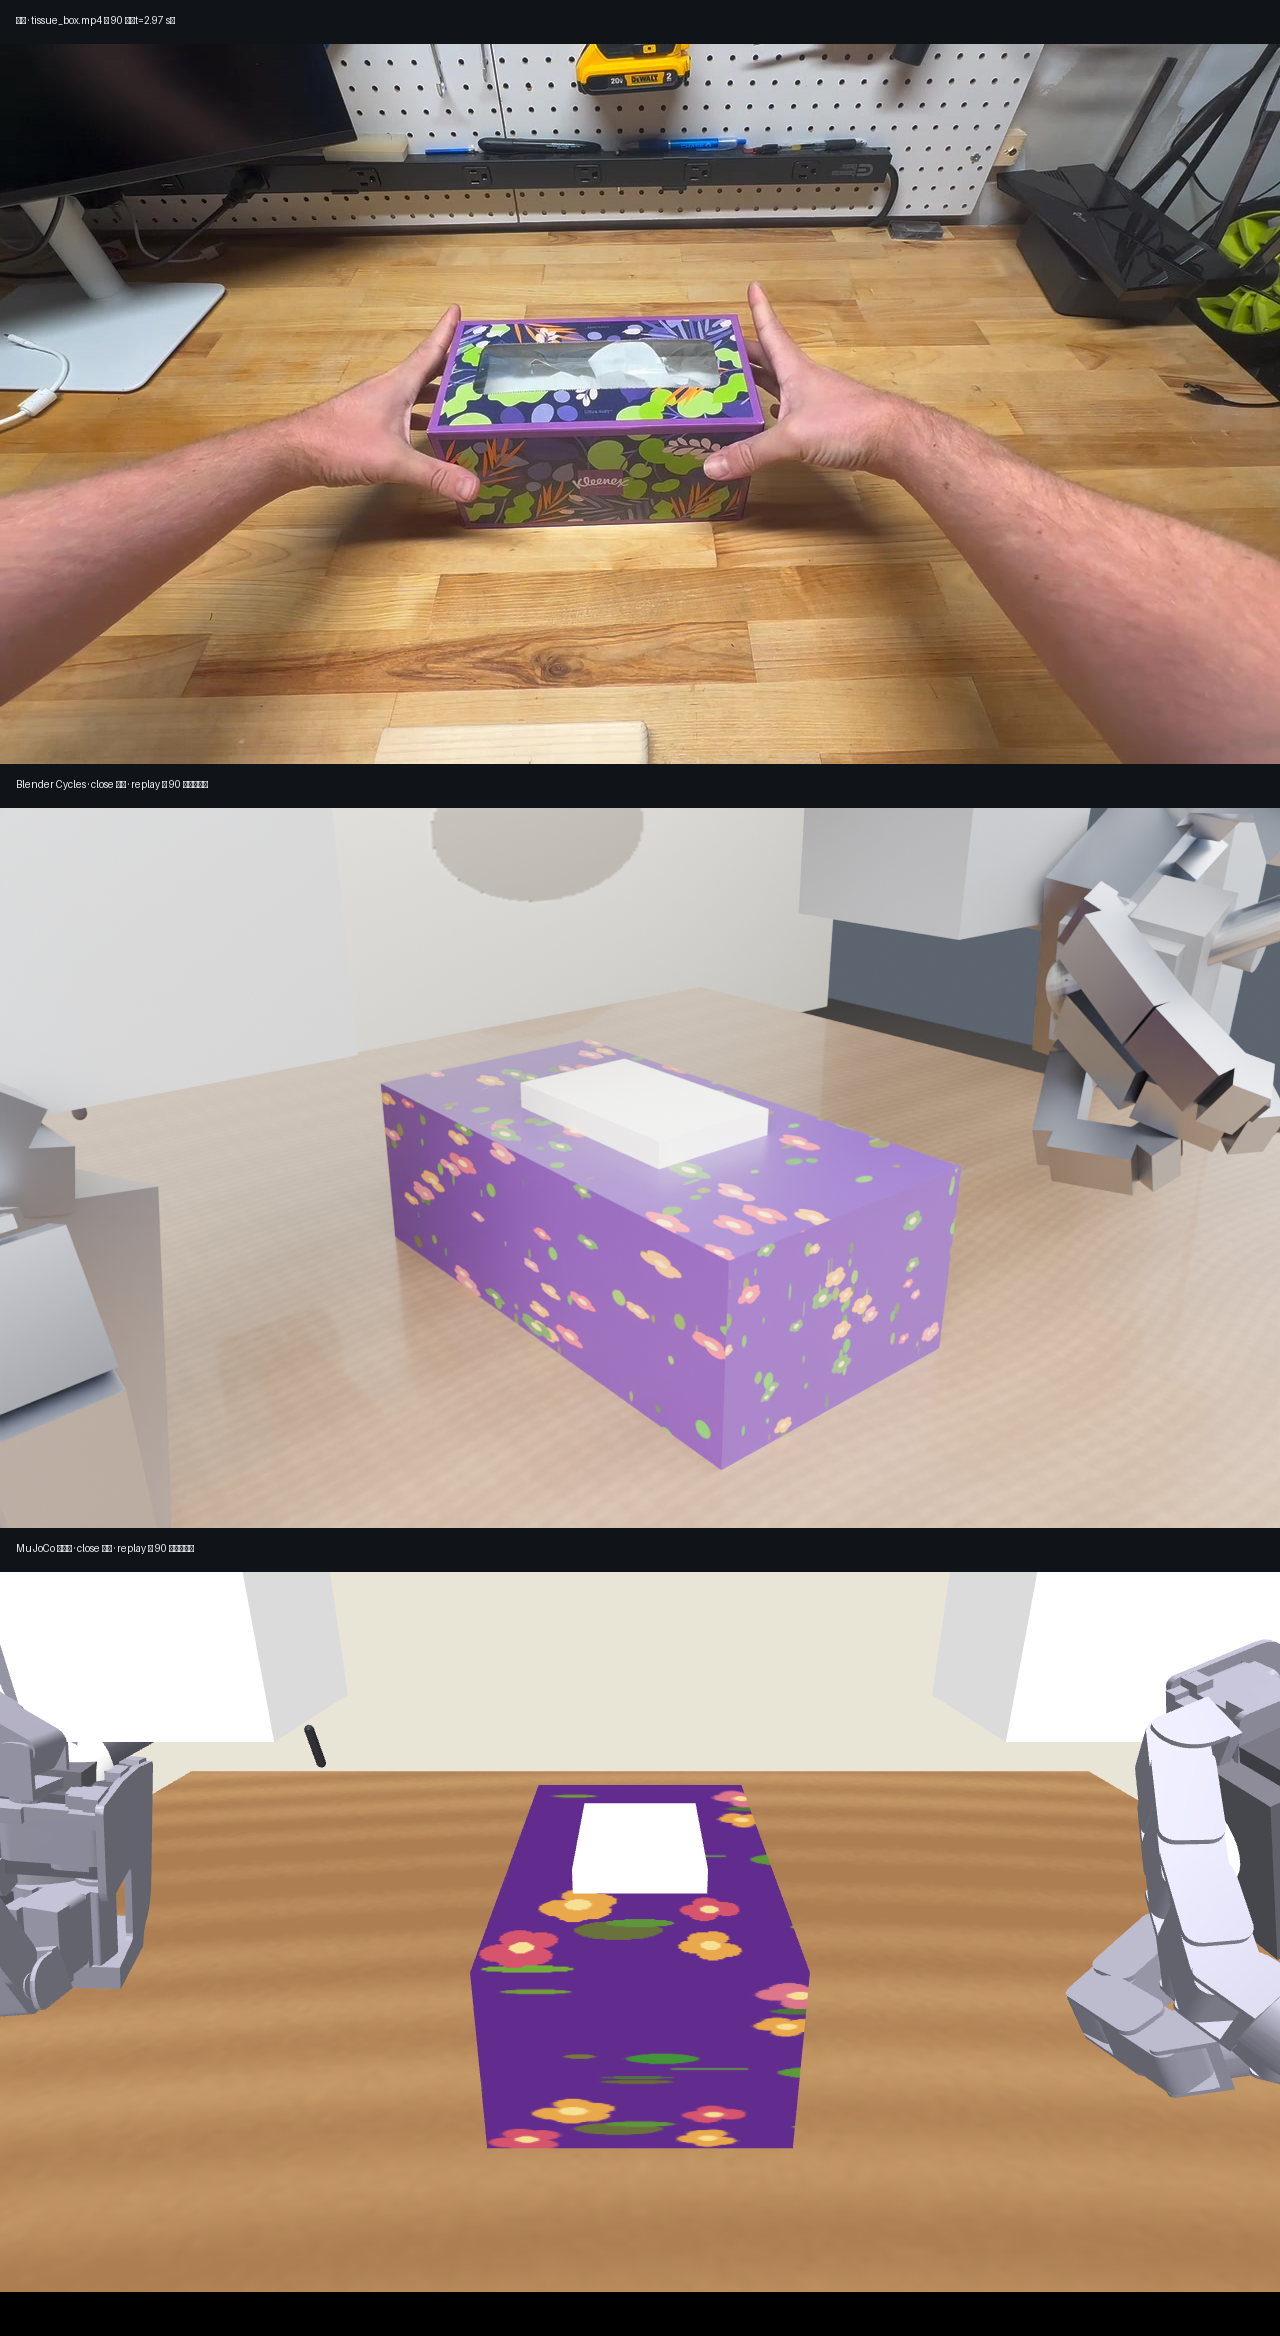
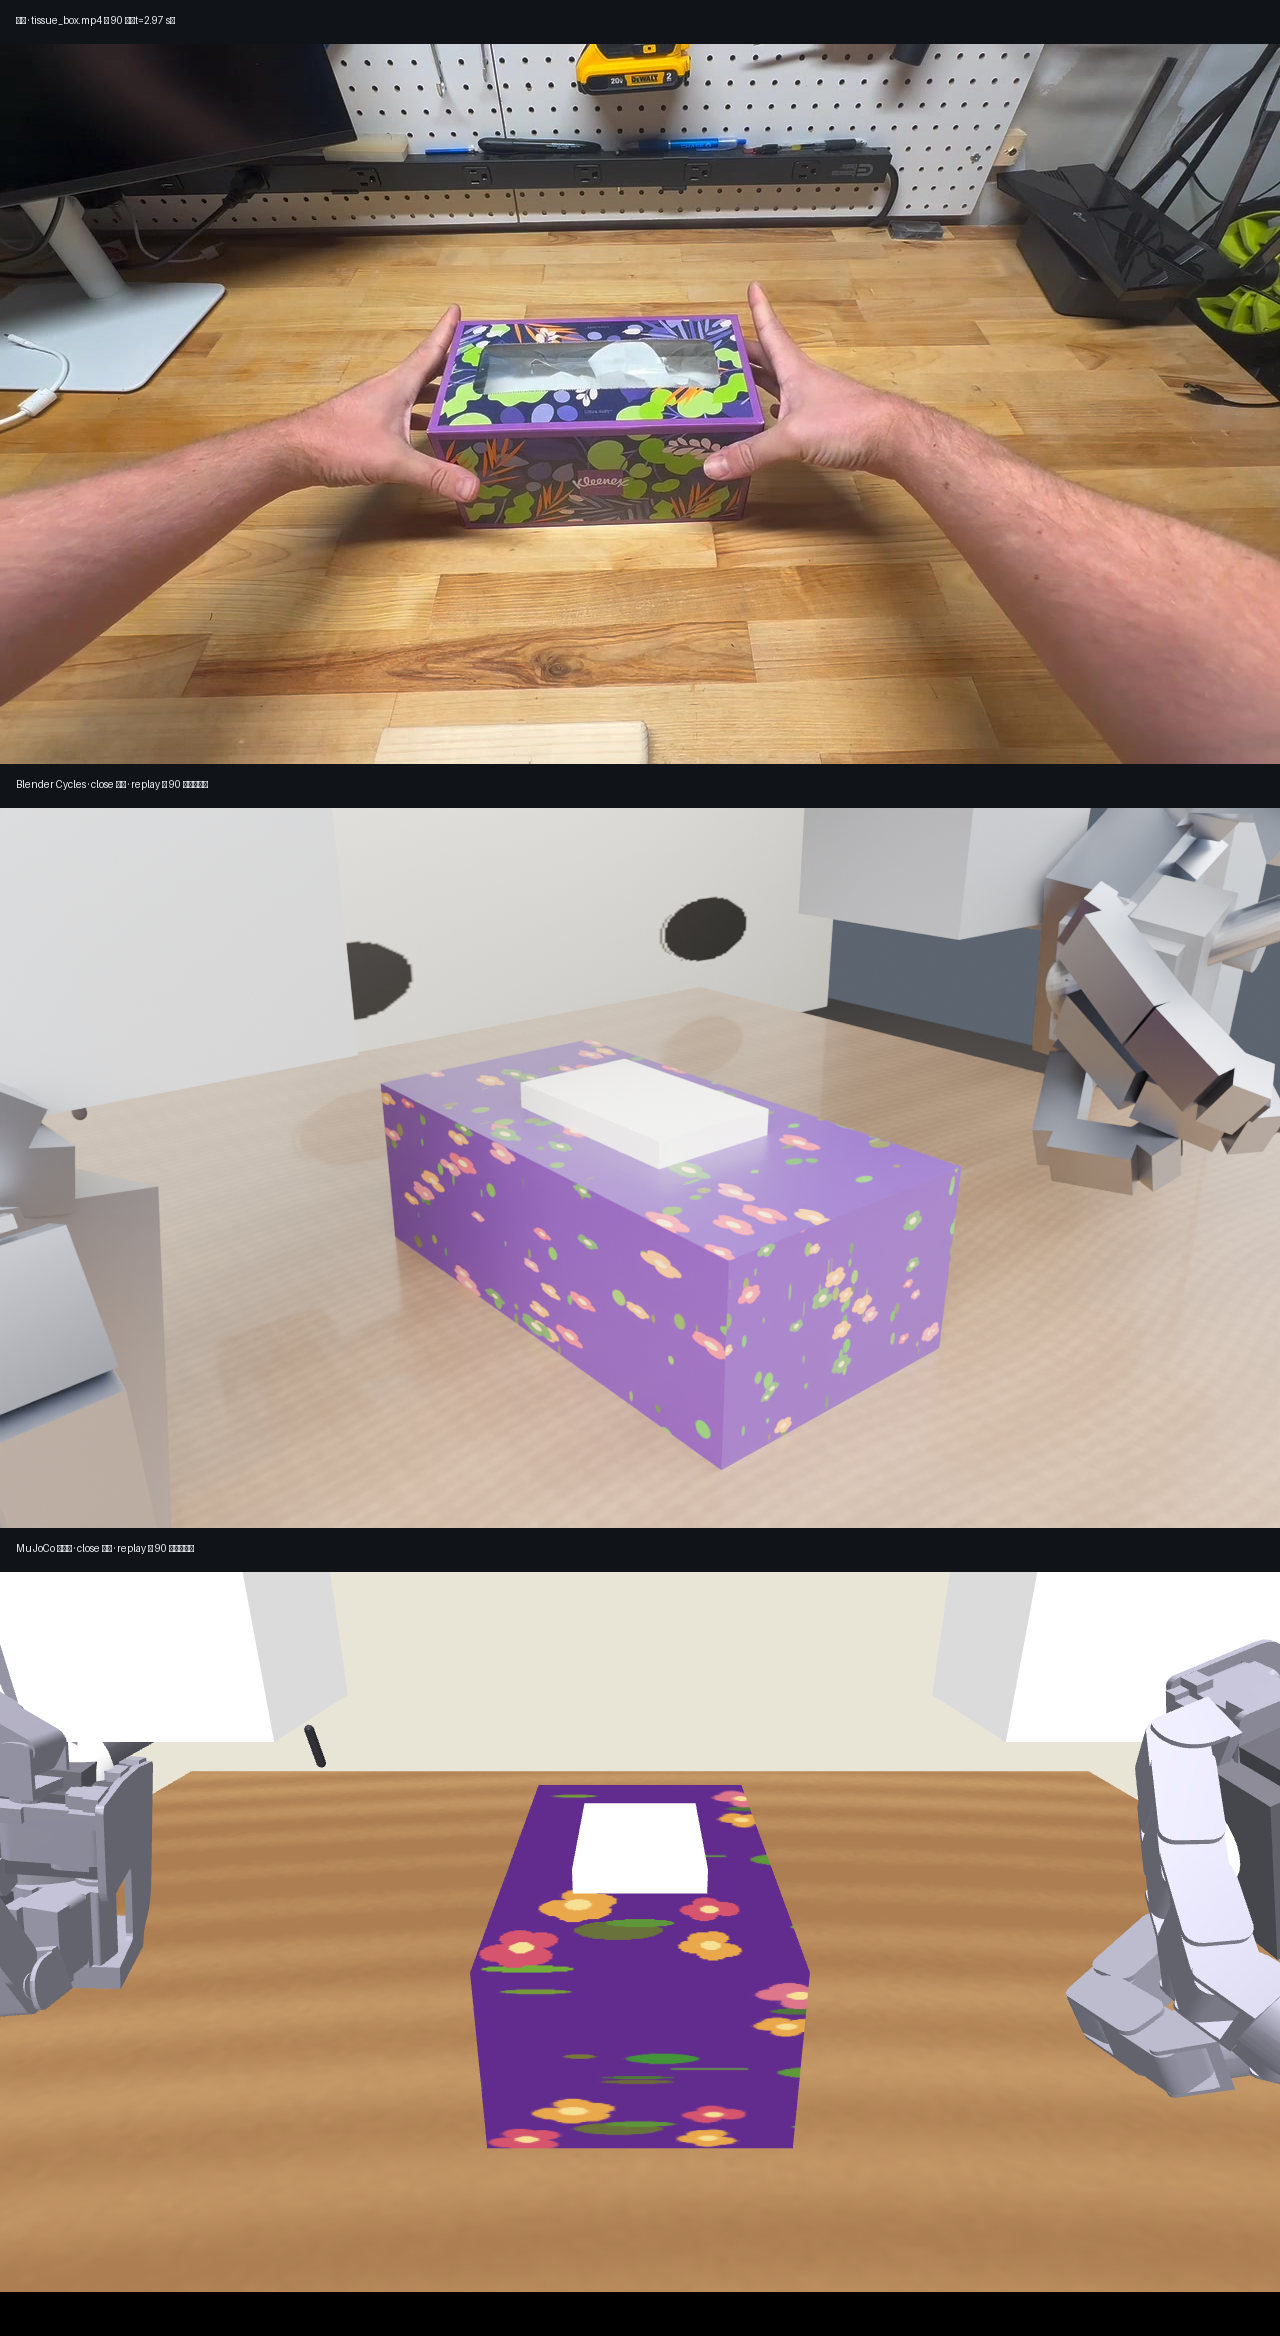
p0(w6d): blender cycles photoreal pilot - cycles wins pilot, full render pending approval

Changed region(s): [[0.3438, 0.3438, 0.5, 0.4062], [0.5, 0.375, 0.5938, 0.4375], [0.25, 0.4062, 0.3438, 0.4375]]

diff --git a/viz/scene_fidelity.py b/viz/scene_fidelity.py
@@ -33,8 +33,8 @@ TEX_DIR = REPO / "viz/fidelity_textures"
 # original-clip palette (sampled from source frame 90)
 VIOLET = (98, 44, 142)
 FLOWERS = [(214, 84, 110), (233, 168, 76), (88, 140, 78), (222, 118, 140)]
-OAK_LIGHT = (200, 155, 106)
-OAK_DARK = (172, 126, 82)
+OAK_LIGHT = (170, 141, 106)
+OAK_DARK = (142, 116, 88)
 PEG_BASE = (232, 228, 214)
 PEG_HOLE = (168, 162, 148)
 
@@ -51,16 +51,16 @@ def _floral_texture(path: pathlib.Path, size: int = 1024) -> None:
     rng = np.random.default_rng(11)
     img = Image.new("RGB", (size, size), VIOLET)
     d = ImageDraw.Draw(img)
-    for _ in range(260):  # leaves
+    for _ in range(700):  # leaves
         x, y = rng.integers(0, size, 2)
         r = rng.integers(6, 20)
         a = rng.uniform(0, np.pi)
         dx, dy = r * np.cos(a), r * np.sin(a) * 0.45
         green = (66 + int(rng.integers(0, 55)), 105 + int(rng.integers(0, 70)), 58)
         d.ellipse([x - r, y - dy, x + r, y + dy], fill=green)
-    for _ in range(170):  # flowers: 5 petals around a centre
+    for _ in range(400):  # flowers: 5 petals around a centre
         x, y = rng.integers(0, size, 2)
-        pr = rng.integers(6, 15)
+        pr = rng.integers(9, 20)
         col = FLOWERS[rng.integers(0, len(FLOWERS))]
         for k in range(5):
             a = 2 * np.pi * k / 5 + rng.uniform(0, 1)
@@ -75,11 +75,13 @@ def _floral_texture(path: pathlib.Path, size: int = 1024) -> None:
 def _wood_texture(path: pathlib.Path, size: int = 512) -> None:
     """Light-oak grain: horizontal sinusoid streaks + fine noise."""
     rng = np.random.default_rng(5)
-    yy, xx = np.mgrid[0:size, 0:size].astype(np.float64)
-    grain = (np.sin(yy * 0.35 + np.sin(xx * 0.012) * 6) * 0.5 + 0.5)
-    grain = grain * 0.7 + np.sin(yy * 0.05 + 1.3) * 0.3
-    speck = rng.normal(0, 0.05, (size, size))
-    g = np.clip(grain * 0.9 + speck, 0, 1)
+    # streaks vary along x so the slab-top UV maps them across the view
+    xx, yy = np.mgrid[0:size, 0:size].astype(np.float64)
+    grain = (np.sin(xx * 1.6 + np.sin(yy * 0.035) * 9) * 0.5 + 0.5)
+    grain = grain * 0.55 + np.sin(xx * 0.25 + 1.1) * 0.2
+    grain = grain * 0.8 + (np.sin(yy * 0.9 + xx * 0.05) * 0.5 + 0.5) * 0.2
+    speck = rng.normal(0, 0.09, (size, size))
+    g = np.clip(grain * 0.85 + speck, 0, 1)
     lo, hi = np.array(OAK_DARK, float), np.array(OAK_LIGHT, float)
     img = (lo[None, None, :] + g[:, :, None] * (hi - lo)[None, None, :])
     Image.fromarray(img.astype(np.uint8)).save(path)
@@ -89,14 +91,14 @@ def _pegboard_texture(path: pathlib.Path, size: int = 512) -> None:
     """Cream board with a regular round-hole grid."""
     img = Image.new("RGB", (size, size), PEG_BASE)
     d = ImageDraw.Draw(img)
-    step, r = size // 8, size // 56  # v20 批残差: holes read too faint far away
+    step, r = size // 16, size // 110  # v25: dense holes, strong contrast
     for cy in range(step // 2, size, step):
         for cx in range(step // 2, size, step):
-            d.ellipse([cx - r, cy - r - 1, cx + r, cy + r - 1],
-                      fill=(120, 113, 100))   # cast shadow above
-            d.ellipse([cx - r, cy - r, cx + r, cy + r], fill=PEG_HOLE)
+            d.ellipse([cx - r, cy - r - 2, cx + r, cy + r - 2],
+                      fill=(96, 90, 78))     # cast shadow above
+            d.ellipse([cx - r, cy - r, cx + r, cy + r], fill=(52, 50, 46))
             d.arc([cx - r - 1, cy - r - 1, cx + r + 1, cy + r + 1],
-                  180, 360, fill=(246, 243, 232))
+                  180, 360, fill=(250, 247, 238))
     img.save(path)
 
 
